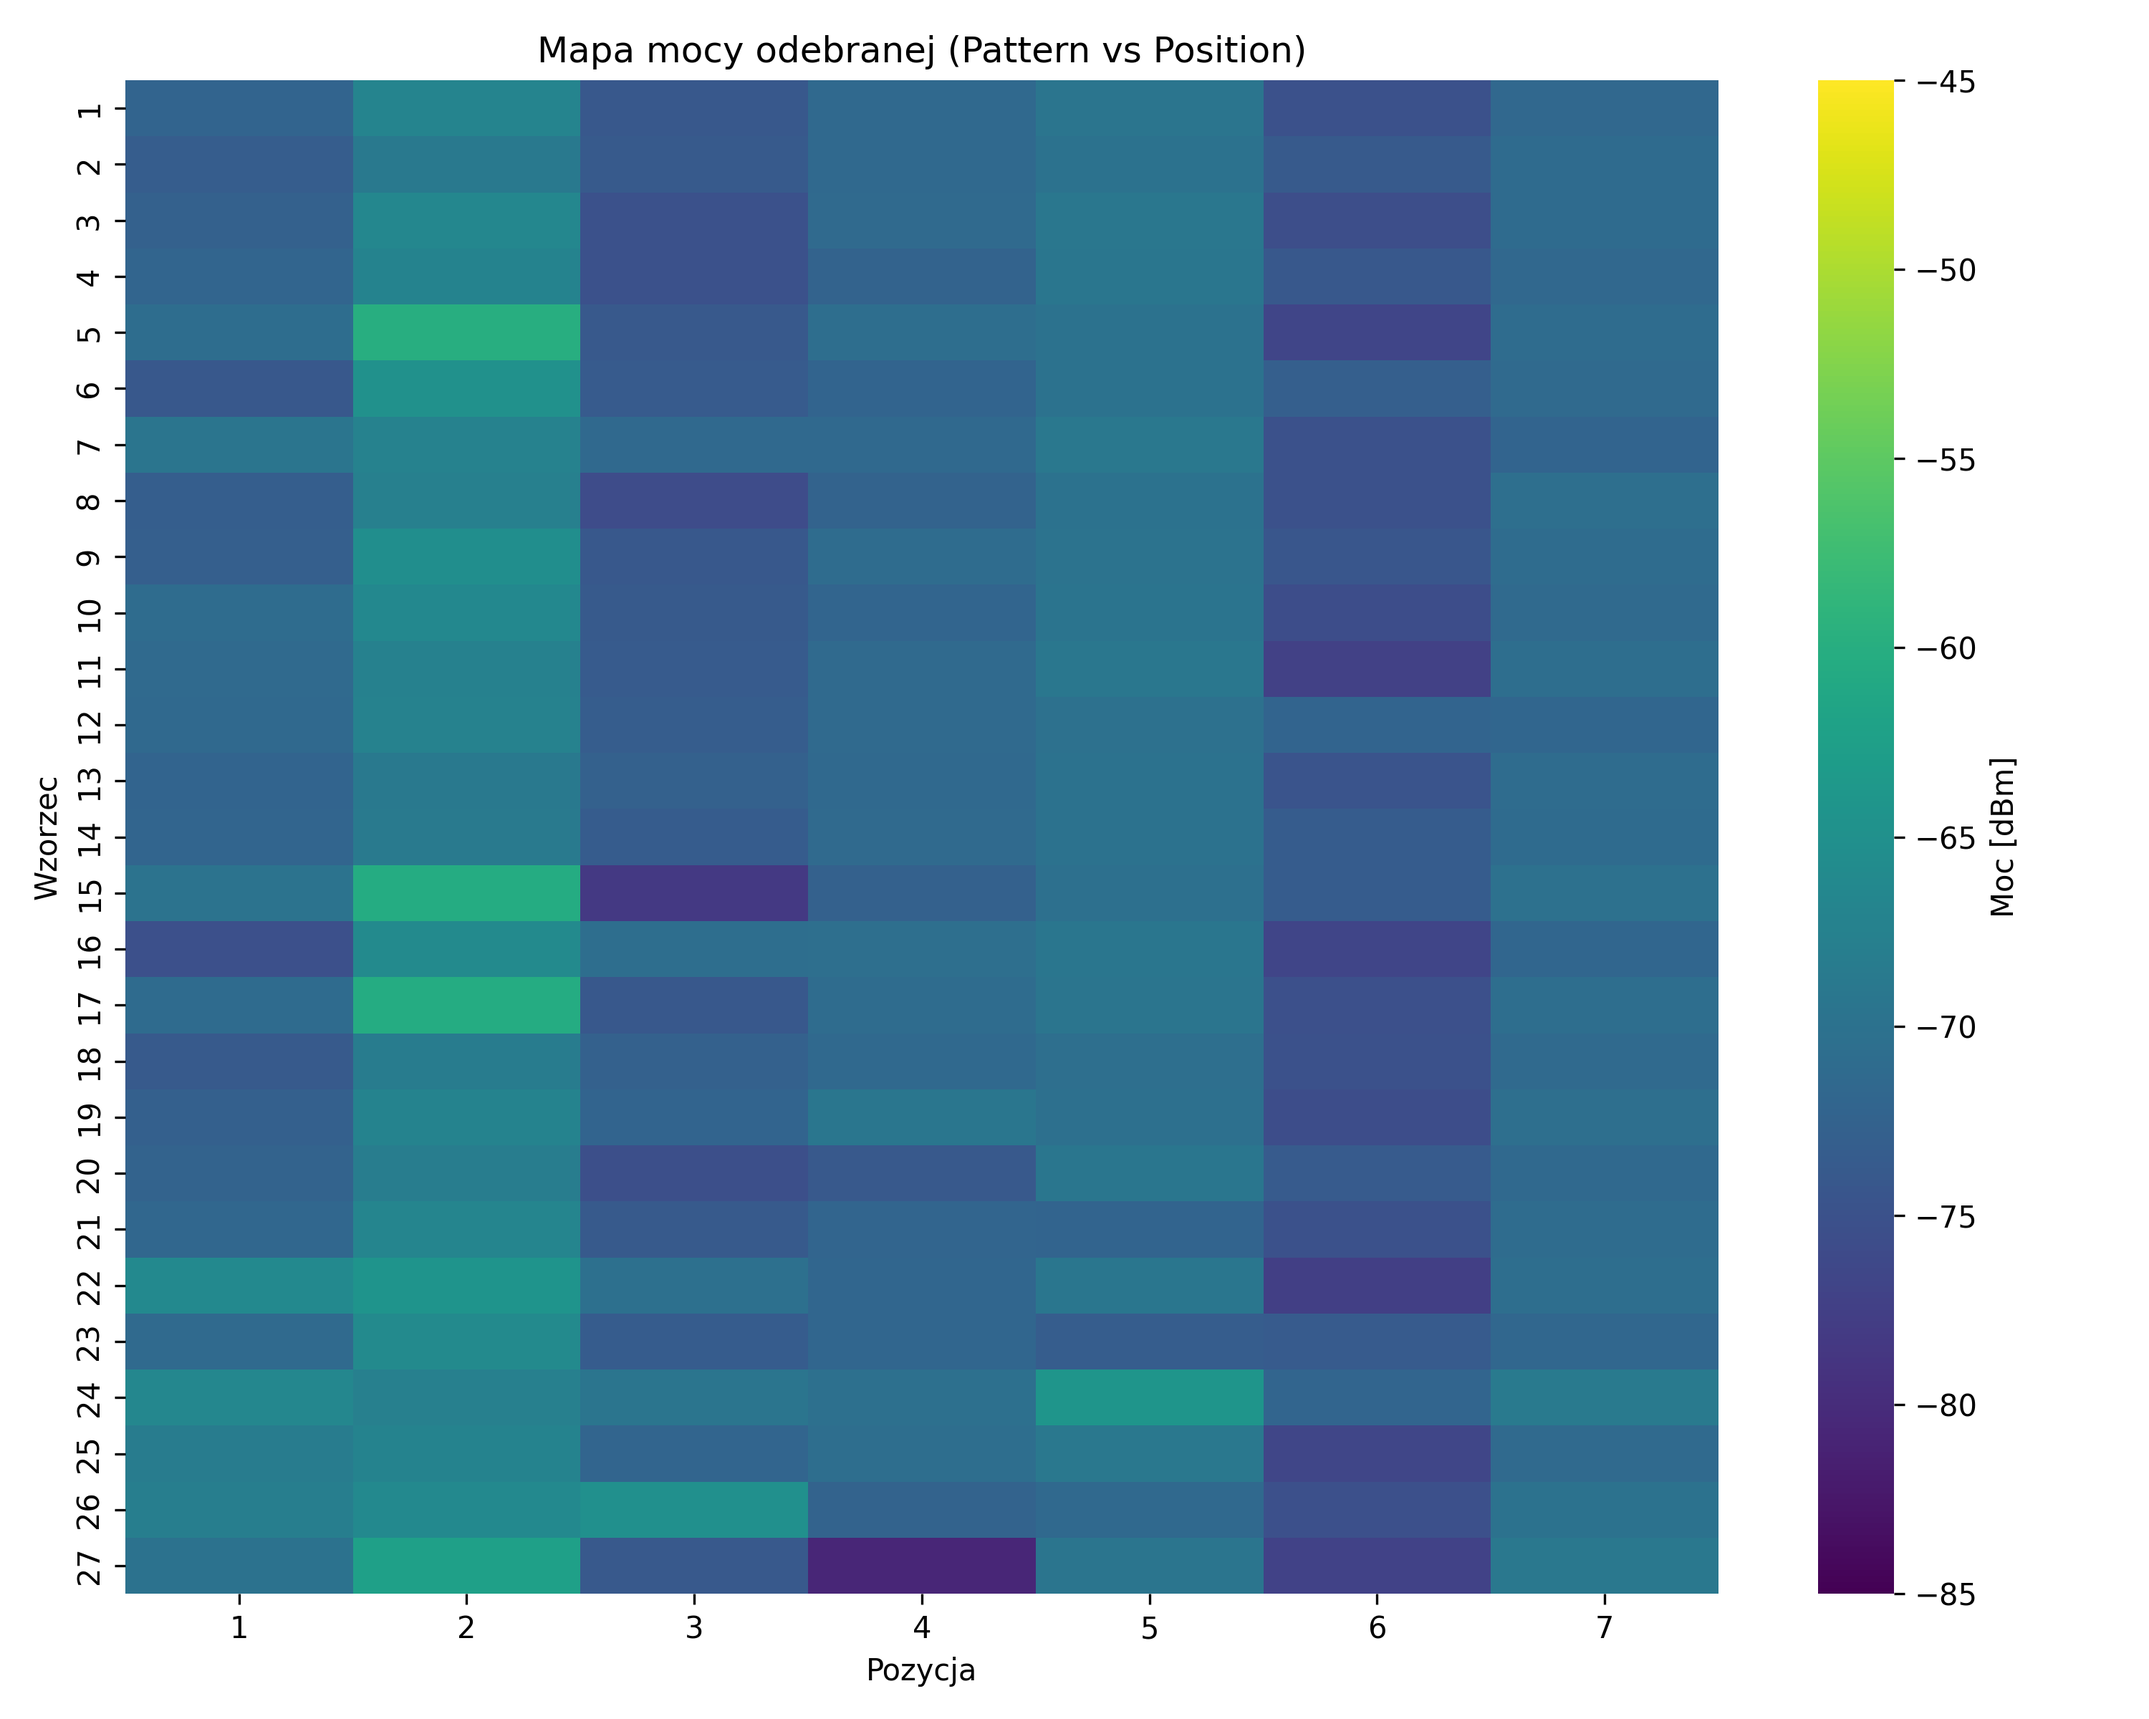
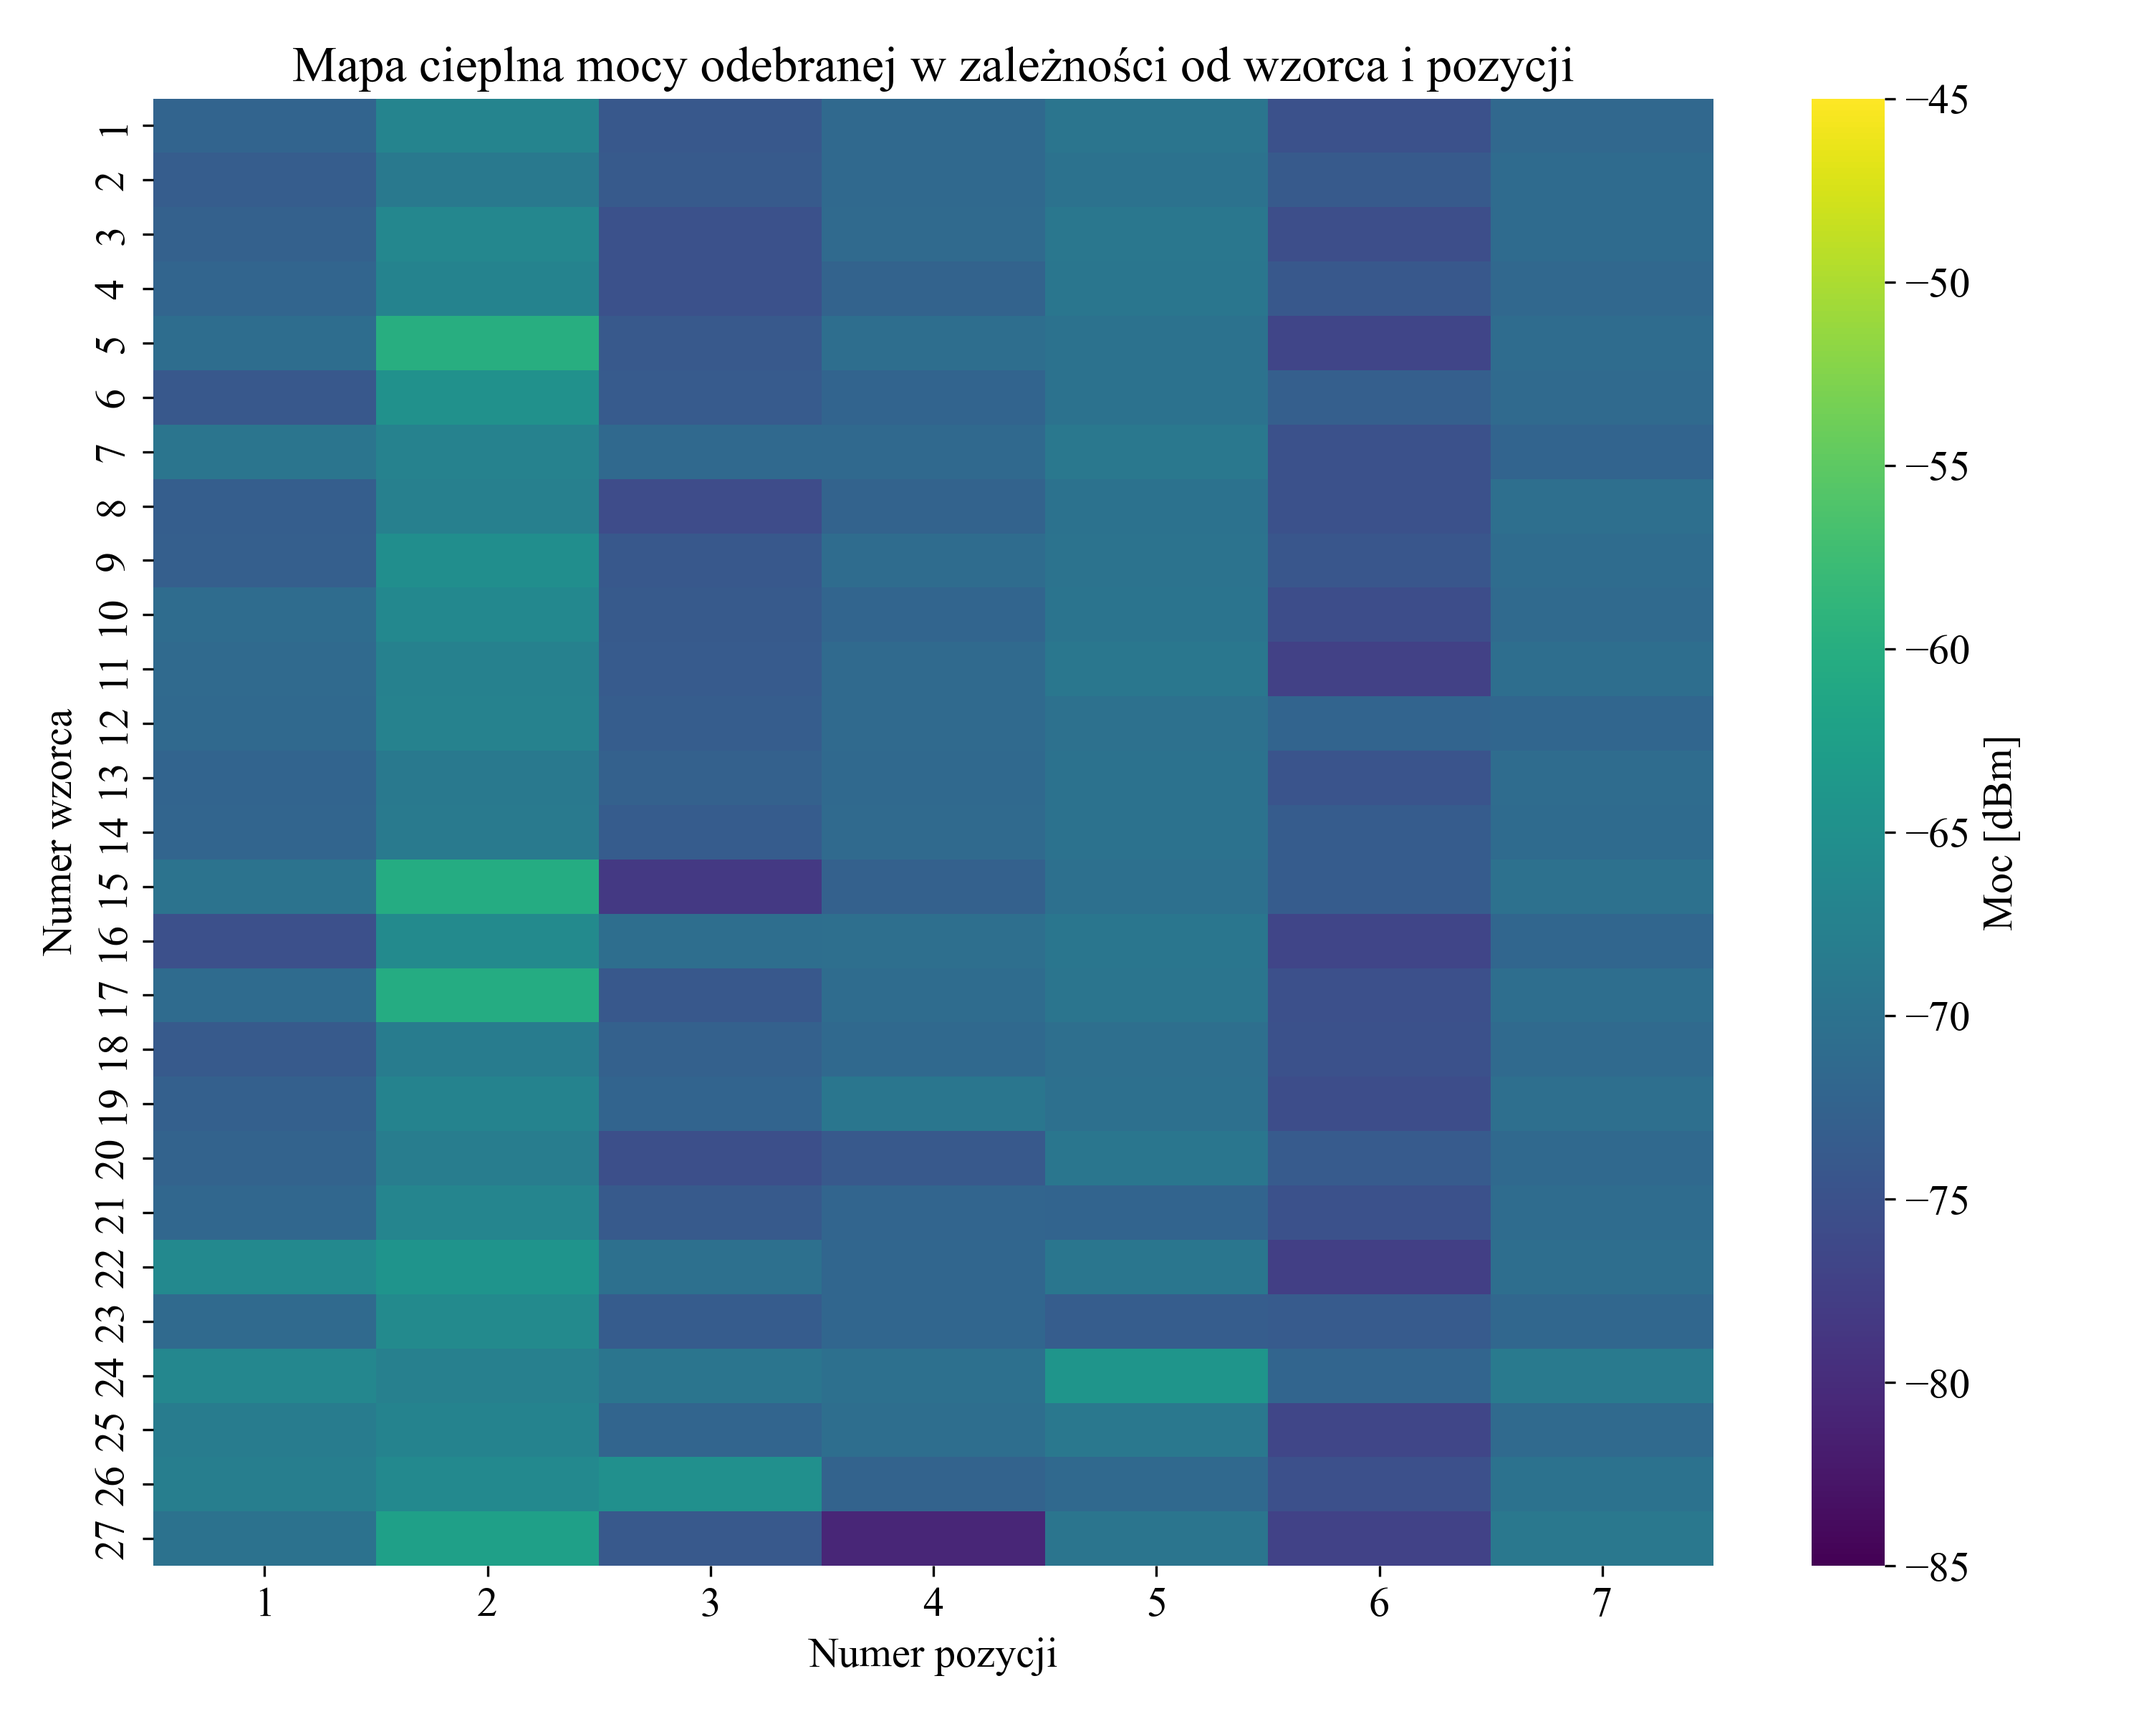
heatmap

diff --git a/Suwnica programy i wykresy/heatmapa.py b/Suwnica programy i wykresy/heatmapa.py
@@ -1,0 +1,62 @@
+import pandas as pd
+import matplotlib.pyplot as plt
+import seaborn as sns
+import os
+import matplotlib as mpl
+
+# Ustaw Times New Roman jako domyślną czcionkę
+mpl.rcParams["font.family"] = "Times New Roman"
+mpl.rcParams["font.size"] = 14
+
+# Lista ścieżek do plików wejściowych
+input_files = [
+    "/Users/pawelplaczkiewicz/Documents/Dokumenty – Mac mini (Paweł)/GitHub/Python_RIS/DANE_Z_POMIAROW/V2X_INFOCOM2024/suwnica_LAB_28_05_25/28_05_25_dookolna.csv",
+    "/Users/pawelplaczkiewicz/Documents/Dokumenty – Mac mini (Paweł)/GitHub/Python_RIS/DANE_Z_POMIAROW/V2X_INFOCOM2024/suwnica_LAB_28_05_25/28_05_25_suwnica_112_90cm.csv",
+    "/Users/pawelplaczkiewicz/Documents/Dokumenty – Mac mini (Paweł)/GitHub/Python_RIS/DANE_Z_POMIAROW/V2X_INFOCOM2024/suwnica_LAB_28_05_25/28_05_25_suwnica_112cm_140cm.csv",
+    "/Users/pawelplaczkiewicz/Documents/Dokumenty – Mac mini (Paweł)/GitHub/Python_RIS/DANE_Z_POMIAROW/V2X_INFOCOM2024/suwnica_LAB_28_05_25/28_05_25_swunica_112_40cm.csv",
+    "/Users/pawelplaczkiewicz/Documents/Dokumenty – Mac mini (Paweł)/GitHub/Python_RIS/DANE_Z_POMIAROW/V2X_INFOCOM2024/suwnica_LAB_28_05_25/28_05_suwnica_bez_skrzynii.csv",
+]
+
+# Lista folderów wyjściowych
+output_folders = [
+    "/Users/pawelplaczkiewicz/Documents/Dokumenty – Mac mini (Paweł)/GitHub/Python_RIS/Suwnica programy i wykresy/wykresy/dookolna",
+    "/Users/pawelplaczkiewicz/Documents/Dokumenty – Mac mini (Paweł)/GitHub/Python_RIS/Suwnica programy i wykresy/wykresy/112_90",
+    "/Users/pawelplaczkiewicz/Documents/Dokumenty – Mac mini (Paweł)/GitHub/Python_RIS/Suwnica programy i wykresy/wykresy/112_140",
+    "/Users/pawelplaczkiewicz/Documents/Dokumenty – Mac mini (Paweł)/GitHub/Python_RIS/Suwnica programy i wykresy/wykresy/112_40",
+    "/Users/pawelplaczkiewicz/Documents/Dokumenty – Mac mini (Paweł)/GitHub/Python_RIS/Suwnica programy i wykresy/wykresy/bez_skrzynii",
+]
+
+# Ustawienia kolorów
+vmin = -85
+vmax = -45
+
+# Przetwarzanie każdego pliku
+for input_path, output_folder in zip(input_files, output_folders):
+    # Upewnij się, że folder wyjściowy istnieje
+    os.makedirs(output_folder, exist_ok=True)
+
+    # Wczytaj dane
+    df = pd.read_csv(
+        input_path,
+        sep=";",
+        header=None,
+        names=["Pattern", "Position", "Frequency", "Power"],
+    )
+
+    # Tworzenie heatmapy
+    plt.figure(figsize=(10, 8))
+    pivot = df.pivot(index="Pattern", columns="Position", values="Power")
+    sns.heatmap(
+        pivot, cmap="viridis", vmin=vmin, vmax=vmax, cbar_kws={"label": "Moc [dBm]"}
+    )
+    plt.title("Mapa cieplna mocy odebranej w zależności od wzorca i pozycji")
+    plt.xlabel("Numer pozycji")
+    plt.ylabel("Numer wzorca")
+    plt.tight_layout()
+
+    # Zapisz heatmapę
+    heatmap_path = os.path.join(output_folder, "heatmapa_mocy.png")
+    plt.savefig(heatmap_path, dpi=300)
+    plt.close()
+
+    print(f"Heatmapa zapisana jako: {heatmap_path}")
